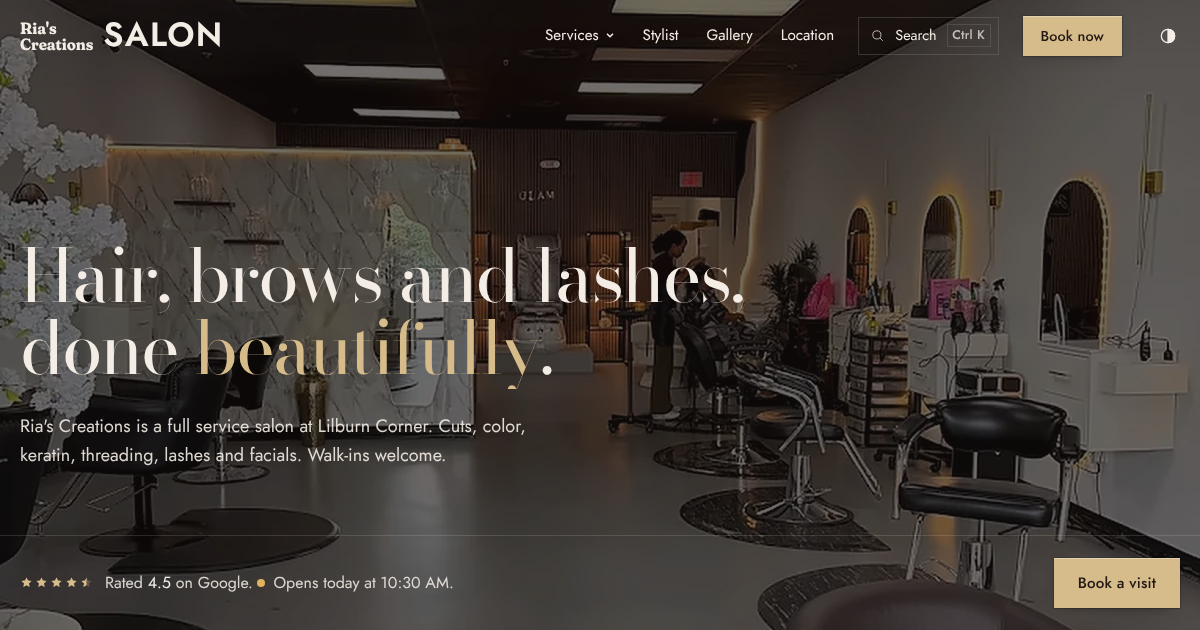
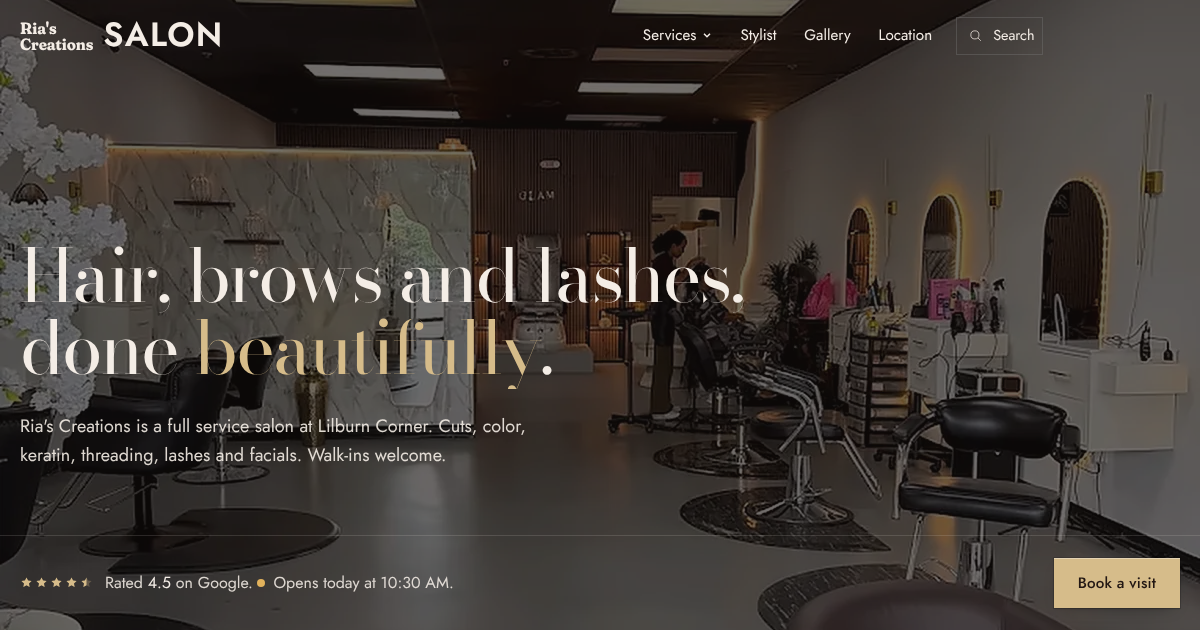
Ria's demo: council round 1, simpler and cleaner
From a fresh critic's walk-through on a laptop and an iPhone:
- the rating shows 4.5 from the start (the count-up flashed 3.0)
- a shorter walk-in (no dead pause before stepping through)
- the header turns solid as soon as you scroll, so the logo never sits on the headline
- one gold button at a time (the header's appears once you scroll)
- no theme switch or keyboard badge in the header
- Meet Ria: one sentence and the motto; reviews: one score line, no reply
- booking: one line that says what happens, a call link, no repeated notes,
  the finished visit scrolls into view with a gold check
- no internal note under the menu, no missing lounge photo request
- search: services appear once you type, the best name match comes first,
  no keyboard hints on touch screens

Claude-Session: https://claude.ai/code/session_01Hh1mtJzcr5g9pxregD7cZJ

Changed region(s): [[0.7092, 0.0, 0.9867, 0.0905], [0.5242, 0.0302, 0.7092, 0.0603], [0.4625, 0.0302, 0.4933, 0.0603]]

diff --git a/demos/rias-creations/app.js b/demos/rias-creations/app.js
@@ -73,7 +73,7 @@
       new Promise((r) => (document.readyState === "complete" ? r() : addEventListener("load", r, { once: true }))),
     ];
     let ready = 0; tasks.forEach((p) => p.then(() => ready++, () => ready++));
-    const t0 = performance.now(), MIN = 2200, MAX = 6000;
+    const t0 = performance.now(), MIN = 1300, MAX = 6000;
     let finished = false, walking = false;
     // never stuck: if frames stop (the phone pauses the page, a slow device), the walk-in still ends
     const giveUp = setTimeout(() => finish(), MAX + 5000);
@@ -87,7 +87,7 @@
       count.textContent = String(Math.floor(shown));
       ring.style.strokeDashoffset = String(100 - shown);       // the mirror light comes on as the page loads
       setLine(shown);
-      if (shown >= 100) { count.textContent = "100"; ring.style.strokeDashoffset = "0"; setTimeout(walk, 520); return; }
+      if (shown >= 100) { count.textContent = "100"; ring.style.strokeDashoffset = "0"; setTimeout(walk, 180); return; }
       requestAnimationFrame(tick);
     };
     requestAnimationFrame(tick);
@@ -95,7 +95,7 @@
     function walk() {
       if (finished || walking) return;
       walking = true;
-      setTimeout(() => finish(), 1600 + 1400);                 // the walk lasts 1.6 s; if frames stall, land anyway
+      setTimeout(() => finish(), 1300 + 1400);                 // the walk lasts 1.3 s; if frames stall, land anyway
       const vw = innerWidth, vh = innerHeight, r = door.getBoundingClientRect();
       Object.assign(door.style, { left: r.left + "px", top: r.top + "px", width: r.width + "px", height: r.height + "px", transform: "none" });
       const cx = r.left + r.width / 2, cy = r.top + r.height / 2;
@@ -106,7 +106,7 @@
       const I0 = 1.15, I1 = cw / r.width;                        // photo: a slight crop through the door → hero size
       const D1 = 4 * Math.max(vw / r.width, vh / r.height, I1);   // doorway: grows well past the screen edges
       entry.classList.add("walking");
-      const dur = 1600, start = performance.now();
+      const dur = 1300, start = performance.now();
       const ease = (t) => (t < 0.5 ? 4 * t * t * t : 1 - Math.pow(-2 * t + 2, 3) / 2);   // step in, glide through, settle
       const step = (now) => {
         if (finished) return;
@@ -147,7 +147,7 @@
     const brand = $("#nav .logo");
     const navItems = $$("#nav .nav-links > a, #nav .search-btn, #nav .nav-book, #nav .nav-tools > button").filter((el) => el.offsetParent);
     const facts = $$(".hero-bar .hero-note"), stars = $$(".hero-bar .stars svg"), ctas = $$(".hero-cta .btn");
-    const rating = $('.hero-bar [data-swr="rating"]'), target = parseFloat(rating.textContent) || 4.5, count = { v: 0 };
+    const rating = $('.hero-bar [data-swr="rating"]'), target = parseFloat(rating.textContent) || 4.5;
 
     // starting poses, set before anything is revealed so nothing flashes
     A.set(chars, { y: "108%" });
@@ -159,8 +159,6 @@
     A.set(facts, { opacity: 0, x: -40 });
     A.set(ctas, { opacity: 0, x: 40 });
     A.set(stars, { opacity: 0, scale: 0.6 });
-    rating.textContent = "0.0";
-    rating.dataset.counting = "1";                            // the rating refresh waits for the count-up
     root.classList.add("intro-run");
 
     // the intro lasts about 2.6 s; whatever happens (frames stop, the phone pauses the page), it lands by 4.5 s
@@ -169,7 +167,6 @@
       if (landed) return;
       landed = true; clearTimeout(guard);
       try { tl.pause(); } catch (e) {}
-      delete rating.dataset.counting;
       let shown = target;
       try { shown = store.get(PLACE_KEY)?.data?.rating ?? target; } catch (e) {}   // may run before the rating cache is set up
       rating.textContent = String(shown);
@@ -191,7 +188,6 @@
       .add(lede, { opacity: 1, x: 0, duration: 1200 }, 560)
       .add(facts, { opacity: 1, x: 0, duration: 1100, delay: A.stagger(90) }, 820)
       .add(stars, { opacity: 1, scale: 1, duration: 600, delay: A.stagger(60), ease: "out(3)" }, 980)
-      .add(count, { v: target, duration: 1000, ease: "out(3)", onUpdate: () => (rating.textContent = count.v.toFixed(1)) }, 920)
       .add(ctas, { opacity: 1, x: 0, duration: 1100, delay: A.stagger(80) }, 1150)
       .then(land);
     } catch (e) { land(); }
@@ -298,8 +294,6 @@
     if (img.complete && img.naturalWidth) img.classList.add("loaded");          // already here: no fade needed
     else img.addEventListener("load", () => img.classList.add("loaded"), { once: true });
   });
-  const lounge = $("#loungeCard img");
-  if (lounge.complete && !lounge.naturalWidth) $("#loungeCard").hidden = true;    // missing file: hide, never reuse a photo
 
   /* ── Toasts, with undo ─────────────────────────────────────── */
   const toasts = $("#toasts");
@@ -420,9 +414,7 @@
   bindTips();
 
   /* ── Theme: instant switch ─────────────────────────────────── */
-  const themeBtn = $("#themeBtn");
   const themeLabel = () => (root.dataset.theme === "dark" ? "Switch to day" : "Switch to evening");
-  themeBtn.dataset.tip = themeLabel();
   function toggleTheme() {
     const next = root.dataset.theme === "dark" ? "light" : "dark";
     root.classList.add("theme-switching");
@@ -430,10 +422,7 @@
     void root.offsetWidth;                                     // flush styles while transitions are off
     requestAnimationFrame(() => root.classList.remove("theme-switching"));
     try { localStorage.setItem("ria-theme", next); } catch (e) {}
-    themeBtn.dataset.tip = themeLabel();
-    if (tipFor === themeBtn) placeTip(themeBtn);
   }
-  themeBtn.addEventListener("click", toggleTheme);
 
   /* ── Nav turns solid past the hero; mobile bar shows between hero and booking ── */
   const nav = $("#nav"), mbar = $("#mbar"), hero = $(".hero"), book = $("#book"), visit = $("#visit");   // mbar: optional mobile bar
@@ -449,9 +438,9 @@
   io2.observe(book); io2.observe(visit);
   const onScroll = () => {
     const h = nav.offsetHeight, vr = visit.getBoundingClientRect();
-    const overHero = hero.getBoundingClientRect().bottom > h;            // see-through only over the hero photo
-    nav.classList.toggle("solid", !overHero);
-    nav.classList.toggle("over-dark", !overHero && vr.top < h && vr.bottom > 0);   // a dark bar over the dark Location band
+    const overHero = hero.getBoundingClientRect().bottom > h, moved = scrollY > 4;   // see-through only at the very top
+    nav.classList.toggle("solid", !overHero || moved);
+    nav.classList.toggle("over-dark", moved && (overHero || (vr.top < h && vr.bottom > 0)));   // a dark bar over the photo and the dark Location band
   };
   addEventListener("scroll", onScroll, { passive: true }); onScroll();
 
@@ -566,25 +555,26 @@
   /* ── Command menu (⌘K / Ctrl K / "/") ───────────────────────── */
   const cmd = $("#cmd"), cmdInput = $("#cmdInput"), cmdList = $("#cmdList");
   const MOD = isMac ? "⌘K" : "Ctrl K";
-  $("#modKey").textContent = MOD;
   let results = [], active = 0, cmdReturn = null, closing = null;
   const commands = () => [
     { g: "Suggested", label: "Book a visit", kbd: "B", run: goBook },
     { g: "Suggested", label: "Call the salon", hint: "(770) 557-0354", run: () => (location.href = "tel:+17705570354") },
-    { g: "Suggested", label: themeLabel(), kbd: "T", keys: "theme dark light evening day mode", run: toggleTheme },
     ...SERVICES.map((s) => ({ g: "Book a service", label: s.name, hint: s.price, keys: `${s.cat} ${s.desc}`, run: () => bookService(s.name) })),
     { g: "Go to", label: "Services and prices", keys: "menu cost", run: () => go("#services") },
     { g: "Go to", label: "Gallery", keys: "photos recent work color hair results", run: () => go("#work") },
     { g: "Go to", label: "Meet Ria", keys: "stylist owner about team", run: () => go("#stylist") },
     { g: "Go to", label: "Reviews", keys: "rating google yelp", run: () => go("#reviews") },
     { g: "Go to", label: "Hours and directions", keys: "open close address map visit parking payment card", run: () => go("#visit") },
-    { g: "Contact", label: "Copy phone number", keys: "call", run: () => copy("(770) 557-0354", "Phone number") },
     { g: "Contact", label: "Copy address", keys: "where location", run: () => copy("375 Rockbridge Rd NW, Suite 156, Lilburn, GA 30047", "Address") },
     { g: "Contact", label: "Get directions", keys: "map drive", run: () => open($("[data-prefetch-map]").href, "_blank", "noopener") },
+    { g: "Contact", label: themeLabel(), keys: "theme dark light evening day mode", run: toggleTheme },
   ];
   function renderCmd() {
     const words = cmdInput.value.toLowerCase().split(/\s+/).filter(Boolean);
-    results = commands().filter((c) => words.every((w) => `${c.label} ${c.keys || ""} ${c.g}`.toLowerCase().includes(w)));
+    results = commands().filter((c) => (words.length ? words.every((w) => `${c.label} ${c.keys || ""} ${c.g}`.toLowerCase().includes(w)) : c.g !== "Book a service"));
+    // a name that starts with what you typed comes first, then a name that contains it
+    const rank = (c) => { const l = c.label.toLowerCase(); return words.every((w) => l.startsWith(w) || l.includes(" " + w)) ? 0 : words.every((w) => l.includes(w)) ? 1 : 2; };
+    if (words.length) results = results.map((c, i) => [rank(c), i, c]).sort((a, b) => a[0] - b[0] || a[1] - b[1]).map((x) => x[2]);
     active = Math.min(active, Math.max(0, results.length - 1));
     if (!results.length) {
       cmdList.innerHTML = `<div class="cmd-empty">No matches for “${cmdInput.value.replace(/[<&]/g, "")}”. Try “haircut”, “hours” or “call”.</div>`;
@@ -920,7 +910,11 @@
     const target = { form, sent, confirmed }[name];
     morphHeight(box, () => { [form, sent, confirmed].forEach((el) => (el.hidden = el !== target)); progressEl.hidden = name === "form"; });
     enter(target);
-    if (name !== "form") target.focus({ preventScroll: true });
+    if (name !== "form") {
+      target.focus({ preventScroll: true });
+      const top = box.getBoundingClientRect().top;
+      if (top < nav.offsetHeight || top > innerHeight * 0.5) box.scrollIntoView({ block: "start", behavior: reduced ? "auto" : "smooth" });
+    }
   }
   function setStatus(state, text) { statusEl.dataset.state = state; statusEl.textContent = text; }
   const progressEl = $("#progress"), otpSkel = $("#otpSkel");
@@ -1061,7 +1055,7 @@
   function renderPlace(d, fresh) {
     $$("[data-swr]").forEach((el) => {
       const v = String(d[el.dataset.swr]);
-      if (el.textContent === v || el.dataset.counting) return;
+      if (el.textContent === v) return;
       el.textContent = v;
       if (fresh && !reduced) { el.classList.remove("swr-fresh"); void el.offsetWidth; el.classList.add("swr-fresh"); }
     });
@@ -1090,7 +1084,6 @@
   /* ── Pre-rendering: decode images and warm the map before they are needed ── */
   const predecode = (img) => { if (!img || img.dataset.warm) return; img.dataset.warm = "1"; const p = new Image(); p.src = img.currentSrc || img.src; p.decode?.().catch(() => {}); };
   idle(() => $$('img[loading="lazy"]').forEach(predecode));
-  $$("[data-prefetch]").forEach((a) => ["pointerenter", "focus", "touchstart"].forEach((ev) => a.addEventListener(ev, () => predecode(lounge), { once: true, passive: true })));
   const mapFrame = $("#mapFrame");
   const mapArch = mapFrame.closest(".map-box");
   mapFrame.addEventListener("load", () => { mapArch.classList.remove("map-loading"); mapArch.classList.add("map-ready"); }, { once: true });

diff --git a/demos/rias-creations/index.html b/demos/rias-creations/index.html
@@ -82,14 +82,11 @@
       </nav>
       <button class="search-btn" type="button" id="searchBtn" aria-label="Search the site" aria-keyshortcuts="Control+K Meta+K /">
         <svg viewBox="0 0 24 24" fill="none" stroke="currentColor" stroke-width="1.5" aria-hidden="true"><circle cx="11" cy="11" r="6.5"/><path d="M16 16l4.5 4.5"/></svg>
-        <span>Search</span><kbd id="modKey">Ctrl K</kbd>
+        <span>Search</span>
       </button>
       <a class="btn nav-book" href="#book" data-prefetch><span>Book now</span></a>
       <div class="nav-tools">
-        <button class="icon-btn" id="themeBtn" type="button" aria-label="Switch theme" data-tip="Switch to evening" data-kbd="T" aria-keyshortcuts="T">
-          <svg viewBox="0 0 24 24" fill="none" stroke="currentColor" stroke-width="1.5" aria-hidden="true"><circle cx="12" cy="12" r="8"/><path d="M12 4a8 8 0 0 1 0 16z" fill="currentColor"/></svg>
-        </button>
-        <button class="icon-btn" id="menuBtn" type="button" aria-label="Open menu and search" aria-haspopup="dialog">
+        <button class="icon-btn" id="menuBtn" type="button" aria-label="Open menu" aria-haspopup="dialog">
           <svg viewBox="0 0 24 24" fill="none" stroke="currentColor" stroke-width="1.5" aria-hidden="true"><path d="M4 8.5h16M4 15.5h16"/></svg>
         </button>
       </div>
@@ -127,14 +124,8 @@
     <div class="wrap">
       <div>
         <h2 data-r="lift">Meet Ria</h2>
-        <p class="lede" data-r="left">Ria is the stylist and owner behind Ria's Creations. Clients come back for even cuts, soft layers, rich color and clean brows, and for how welcome she makes them feel.</p>
-        <ul class="skills" aria-label="What Ria is known for" data-r="left">
-          <li>Cuts and layers</li>
-          <li>Color and balayage</li>
-          <li>Keratin treatments</li>
-          <li>Threading and waxing</li>
-        </ul>
-        <p class="lede" data-r="left">Her motto is simple: enhancing beauty. <span class="nowrap">Walk-ins</span> and kids are welcome, and parking is free.</p>
+        <p class="lede" data-r="left">The stylist and owner behind Ria's Creations. Clients come back for even cuts, rich color and clean brows, and for how welcome she makes them feel.</p>
+        <p class="motto" data-r="up">“Enhancing beauty.”</p>
       </div>
       <figure class="about-fig" data-r="down">
         <div class="arch about-arch">
@@ -205,7 +196,6 @@
           <li><h3>Leg wax</h3><span class="price">$35</span><p>Half or full legs.</p><span class="dur num">45 min</span></li>
         </ul>
       </div>
-      <p class="fineprint" data-r="up">Keratin, brows, lashes and the two wax specials are the salon's own prices. The rest, and the times, are placeholders for Ria to set.</p>
     </div>
   </section>
 
@@ -276,8 +266,7 @@
         <h2 data-r="down">What clients say</h2>
         <div class="score" data-swr="rating" data-r="lift">4.5</div>
         <div class="score-meta" data-r="left"><span class="stars" data-stars="4.5" role="img" aria-label="4.5 out of 5 stars"></span><span><span class="num" data-swr="reviews">29</span> Google reviews</span></div>
-        <p class="score-note" data-r="left">Also <span class="num">5.0</span> on Yelp from <span class="num">3</span> reviews.</p>
-        <p class="score-note" data-r="left">Read every review on <a class="src slop" href="https://www.google.com/maps/search/?api=1&amp;query=Ria%27s+Creations+Salon+Lilburn+GA" target="_blank" rel="noopener">Google</a> and <a class="src slop" href="https://www.yelp.com/biz/ria-s-creations-salon-lilburn" target="_blank" rel="noopener">Yelp</a>.</p>
+        <p class="score-note" data-r="left">Read them all on <a class="src slop" href="https://www.google.com/maps/search/?api=1&amp;query=Ria%27s+Creations+Salon+Lilburn+GA" target="_blank" rel="noopener">Google</a> and <a class="src slop" href="https://www.yelp.com/biz/ria-s-creations-salon-lilburn" target="_blank" rel="noopener">Yelp</a>.</p>
       </div>
       <div class="carousel" aria-roledescription="carousel" aria-label="Client reviews" data-r="up">
         <div class="viewport" id="viewport" tabindex="0" aria-label="Reviews. Drag, swipe or use the arrow keys.">
@@ -285,7 +274,6 @@
             <figure class="slide" aria-roledescription="slide" aria-label="1 of 5">
               <blockquote>“I discovered Ria’s hair salon nearly a year ago, and I’m so happy I did. Ria is so nice and personable. She also cuts my hair evenly and does perfect layers for me!”</blockquote>
               <footer><b>Christyne S.</b>, haircut and layers, on <a class="src slop" href="https://www.google.com/maps/search/?api=1&amp;query=Ria%27s+Creations+Salon+Lilburn+GA" target="_blank" rel="noopener">Google</a></footer>
-              <p class="reply">Ria replied: “Thank you so much Christyne! I appreciate your support and business. I look forward to seeing you.”</p>
             </figure>
             <figure class="slide" aria-roledescription="slide" aria-label="2 of 5">
               <blockquote>“I went here to color my hair for the first time… oh my god I loved it! What an excellent job she did on my hair. I would recommend Ria’s Creations Salon to all my friends and my family.”</blockquote>
@@ -323,21 +311,8 @@
     <div class="wrap">
       <div>
         <h2 data-r="right">Book a visit</h2>
-        <p class="lede" data-r="down">Choose a service and a time. Ria texts you back to confirm, and again the day before.</p>
-        <ul class="book-notes" data-r="down">
-          <li>Appointments are recommended; walk-ins are welcome</li>
-          <li>Asking for Ria? Call ahead and she'll hold your time</li>
-          <li>Reschedule by replying to the text</li>
-        </ul>
-        <!-- The lounge photo. Each photo on the page is used once; if this file is missing, the card hides. -->
-        <figure class="shell photo-card" id="loungeCard">
-          <button class="photo-btn" type="button" data-view aria-label="View larger photo of the lounge">
-            <span class="ph">
-              <img src="images/lounge.webp" onerror="this.closest('figure').hidden = true" alt="The waiting lounge: brown leather seating, a gold side table, an olive tree and a lit oval mirror" decoding="async">
-            </span>
-          </button>
-          <figcaption><b>The lounge</b><span>Relax while waiting</span></figcaption>
-        </figure>
+        <p class="lede" data-r="down">Pick a service and a time, then type the code we text you. You're booked.</p>
+        <p class="book-call" data-r="down">Rather talk? <a class="slop" href="tel:+17705570354">Call <span class="num">(770) 557-0354</span></a></p>
       </div>
 
       <div class="shell" data-r="up">

diff --git a/demos/rias-creations/styles.css b/demos/rias-creations/styles.css
@@ -207,7 +207,10 @@ section { padding: clamp(56px, 5.2vw, 76px) 0; }
 .nav-tools { display: flex; gap: 4px; margin-right: -10px; }
 #menuBtn { display: none; }
 @media (max-width: 900px) { .nav-links, .search-btn { display: none; } #menuBtn { display: grid; } }
-@media (max-width: 520px) { #themeBtn { display: none; } .nav-right { gap: 8px; } .nav-book { padding: 0 14px; } }   /* theme switch lives in the search menu on phones */
+@media (max-width: 520px) { .nav-right { gap: 8px; } .nav-book { padding: 0 14px; } }
+/* one gold button at a time: the header's appears once the hero's own button is behind you */
+.nav-book { transition: opacity 240ms var(--ease-out), visibility 240ms; }
+.nav:not(.solid) .nav-book { opacity: 0; visibility: hidden; }
 
 /* ── Hero ──────────────────────────────────────────────────────── */
 .hero { min-height: 100svh; display: flex; flex-direction: column; padding: 0; position: relative; overflow-x: clip; }
@@ -329,7 +332,6 @@ section { padding: clamp(56px, 5.2vw, 76px) 0; }
   font: 500 .8rem/1 var(--sans); letter-spacing: .01em; color: var(--ink);
   padding: 5px 8px; border-radius: var(--r-sm); box-shadow: inset 0 0 0 1px var(--line-strong); cursor: help;
 }
-.fineprint { margin-top: 26px; font-size: .82rem; color: var(--muted); }
 @media (max-width: 760px) {
   .menu { grid-template-columns: 1fr; }
   .tabs { gap: 28px; margin-inline: -20px; padding-inline: 20px; }
@@ -348,7 +350,7 @@ section { padding: clamp(56px, 5.2vw, 76px) 0; }
 .slide blockquote { font-size: clamp(1.6rem, 2.9vw, 2.35rem); line-height: 1.22; letter-spacing: -.01em; text-indent: -.36em; }
 .slide footer { margin-top: 28px; font-size: .95rem; color: var(--muted); }
 .slide footer b { font-weight: 500; color: var(--ink); }
-.slide .reply { margin-top: 14px; padding-left: 14px; border-left: 1px solid var(--line-strong); font-size: .9rem; color: var(--muted); max-width: 34em; }
+@media (max-width: 760px) { .slide blockquote { font-size: 1.35rem; line-height: 1.3; } }
 .car-ctrl { display: flex; align-items: center; gap: 6px; margin-top: 40px; }
 .car-ctrl .count { margin-left: 12px; font-size: .92rem; color: var(--muted); }
 .car-ctrl .icon-btn { box-shadow: inset 0 0 0 1px var(--line-strong); }
@@ -364,22 +366,13 @@ section { padding: clamp(56px, 5.2vw, 76px) 0; }
 .book .wrap { display: grid; grid-template-columns: .9fr 1.1fr; gap: clamp(40px, 7vw, 100px); align-items: start; }
 .book .lede { margin-top: 22px; }
 @media (min-width: 901px) { .book .wrap > div:first-child { position: sticky; top: calc(var(--nav-h) + 40px); } }
-.book-notes { list-style: none; margin-top: 32px; border-top: 1px solid var(--line); }
-.book-notes li { padding: 14px 0; border-bottom: 1px solid var(--line); font-size: .98rem; }
+
 /* Layered structure: tinted shell → 6px gap → card or photo. Concentric. */
 .shell { padding: 6px; border-radius: var(--r-xl); background: var(--tint); box-shadow: inset 0 0 0 1px var(--line), var(--shadow-soft); }
 .card {
   border-radius: var(--r-lg); background: var(--surface); padding: clamp(22px, 3vw, 34px);
   box-shadow: 0 0 0 1px var(--line);
 }
-.photo-card { margin-top: 40px; }
-.photo-card .ph { border-radius: var(--r-lg); aspect-ratio: 4 / 5; }
-.photo-card img {
-  width: 100%; height: 100%; object-fit: cover; object-position: 50% 60%; border-radius: var(--r-lg);
-  outline: 1px solid rgb(0 0 0 / .08); outline-offset: -1px;
-}
-.photo-card figcaption { display: flex; justify-content: space-between; gap: 12px; padding: 12px 10px 6px; font-size: .88rem; color: var(--muted); }
-.photo-card figcaption b { font-weight: 500; color: var(--ink); }
 .form-box { overflow: clip; }
 form { display: grid; grid-template-columns: 1fr 1fr; gap: 10px 18px; }
 .field { display: grid; gap: 8px; align-content: start; min-width: 0; }
@@ -436,8 +429,6 @@ form .btn { width: 100%; margin-top: 8px; }
 .state-actions { display: flex; align-items: center; gap: 20px; margin-top: 28px; flex-wrap: wrap; }
 @media (max-width: 900px) {
   .book .wrap { grid-template-columns: 1fr; }
-  .photo-card { max-width: 520px; }
-  .photo-card .ph { aspect-ratio: 4 / 3; }
 }
 @media (max-width: 640px) {
   form { grid-template-columns: 1fr; }
@@ -674,11 +665,16 @@ dialog.dragging::backdrop { transition: none; }
 .progress { display: grid; grid-template-columns: repeat(3, 1fr); gap: 4px; margin-bottom: 28px; }
 .progress span { position: relative; height: 3px; background: var(--line); overflow: hidden; }
 .progress span::after {
-  content: ""; position: absolute; inset: 0; background: var(--ok);
+  content: ""; position: absolute; inset: 0; background: var(--gold);
   transform: scaleX(0); transform-origin: left; transition: transform 520ms var(--ease-in-out), background-color 200ms;
 }
 .progress span.done::after { transform: none; }
-.progress span.now::after { transform: none; background: var(--warn); }
+.progress span.now::after { transform: none; background: #e8c4c0; }   /* blush: this step */
+#confirmed .state-mark { background: var(--gold); color: var(--espresso); animation: pop 520ms var(--ease-out) both; }
+@keyframes pop { from { transform: scale(.6); opacity: 0; } 60% { transform: scale(1.08); opacity: 1; } to { transform: none; } }
+@media (prefers-reduced-motion: reduce) { #confirmed .state-mark { animation: none; } }
+/* keyboard hints mean nothing on a touch screen */
+@media (hover: none) { .cmd kbd { display: none; } }
 
 /* ── Skeletons: a calm pulse where something is on its way (no shimmer gradient) ── */
 .skeleton { background: var(--line); animation: skeleton 1.1s var(--ease-in-out) infinite alternate; }
@@ -768,10 +764,9 @@ dialog.dragging::backdrop { transition: none; }
 main > section:not(.on-dark):not(.reviews) + section:not(.on-dark) { border-top: 1px solid var(--line); }
 
 /* ── Meet Ria: what she is known for ── */
-.skills { list-style: none; display: grid; grid-template-columns: 1fr 1fr; margin-top: 28px; border-top: 1px solid var(--line); }
-.skills li { padding: 14px 0; border-bottom: 1px solid var(--line); font-size: 1rem; }
-.skills li:nth-child(odd) { padding-right: 16px; }
-.about .lede + .skills + .lede { margin-top: 24px; }
+.book-call { margin-top: 22px; color: var(--muted); }
+.book-call a { color: var(--ink); text-decoration: underline; text-underline-offset: 4px; text-decoration-color: var(--gold); }
+.motto { margin-top: 26px; font: 400 clamp(1.5rem, 2.4vw, 1.9rem)/1.2 var(--serif); color: var(--accent); }
 
 /* ── Soft lift on photos ── */
 .rail .ph, .about-arch { box-shadow: var(--shadow-soft); }
